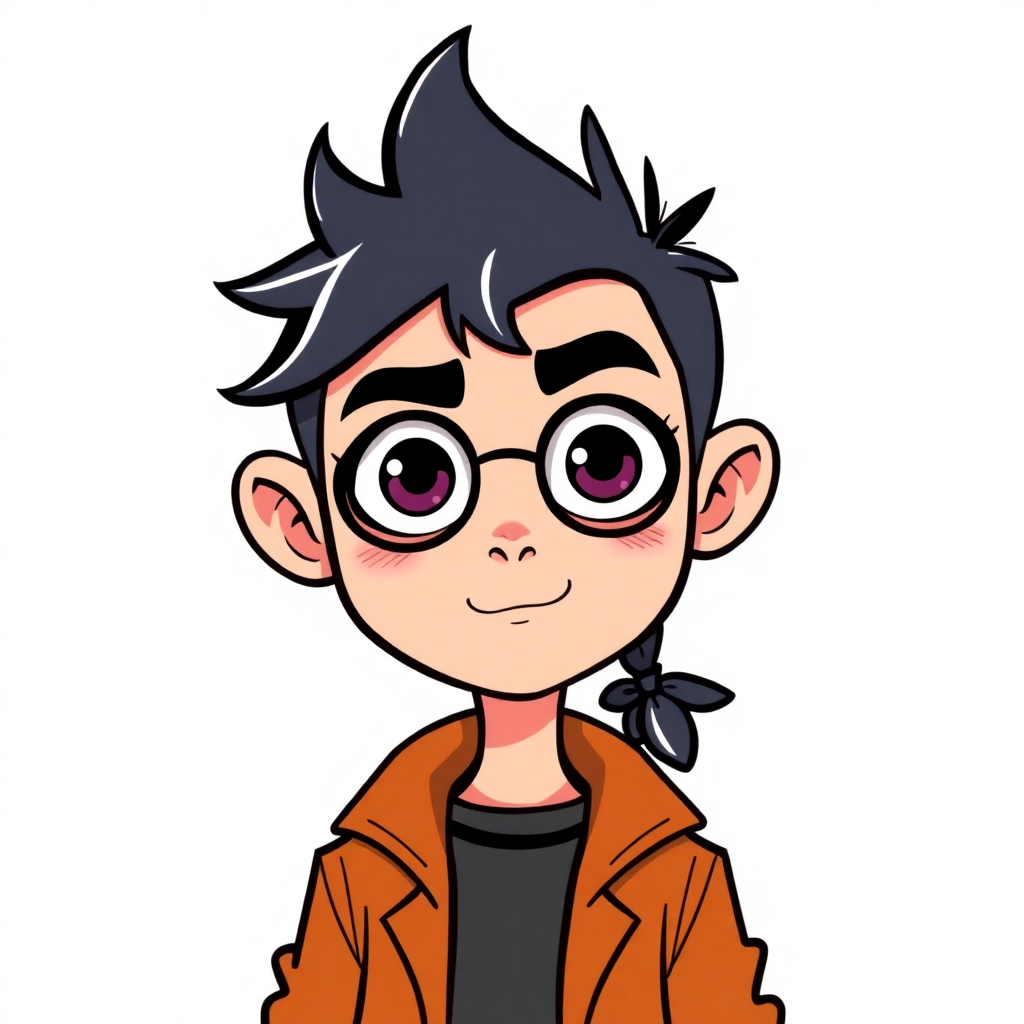
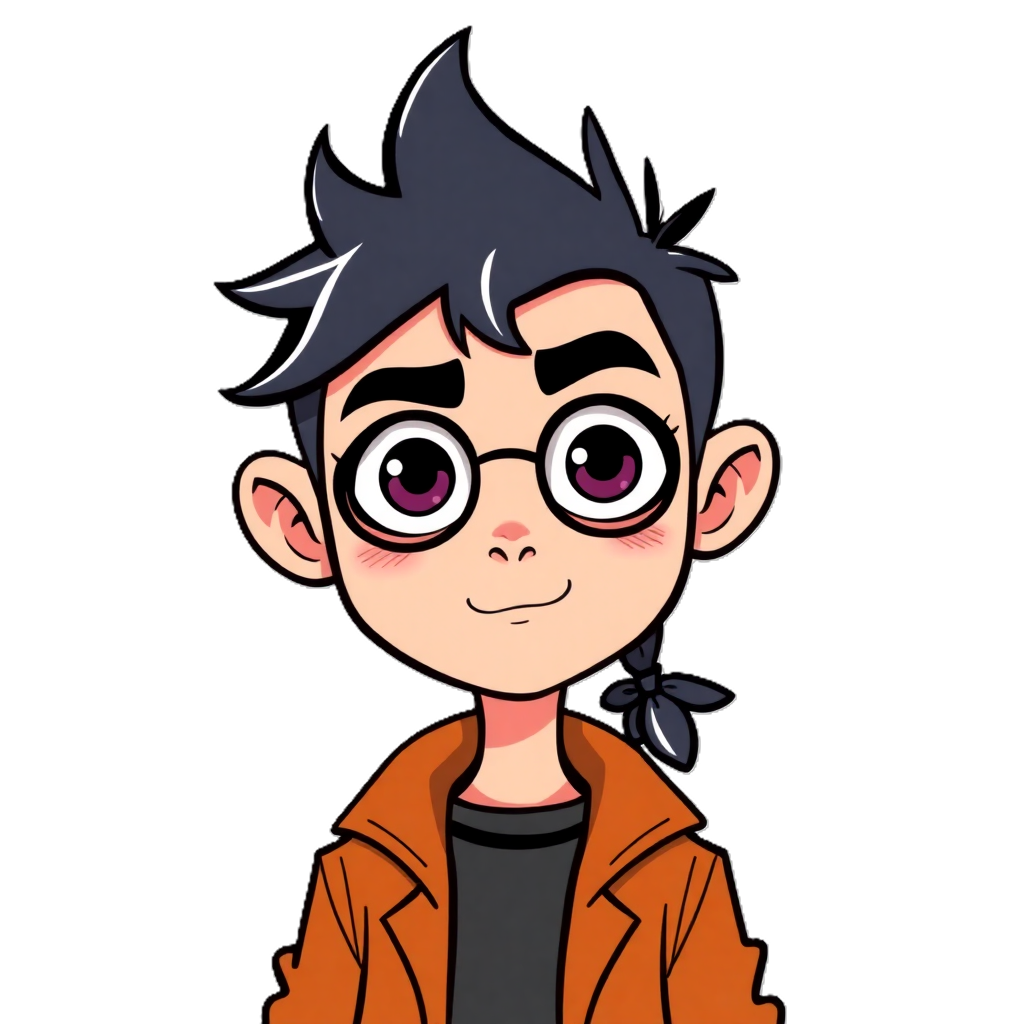
updated

diff --git a/frontend-react/src/utils/audioPreloader.ts b/frontend-react/src/utils/audioPreloader.ts
@@ -1,0 +1,54 @@
+// src/utils/audioPreloader.ts
+
+// 💡 NEW: Use eager glob import to include all sound files in the build bundle.
+// This is critical for caching, as it forces the browser to download the files
+// as part of the initial app bundle, eliminating per-play network requests.
+const soundFiles = import.meta.glob("../assets/sounds/*.mp3", {
+  eager: true,
+  import: "default", // Ensure the imported value is the direct URL
+});
+
+// Cache to hold loaded HTMLAudioElement objects
+export const cachedSounds: Record<string, HTMLAudioElement> = {};
+
+/**
+ * Preloads all sound files by eagerly loading them and storing them
+ * as HTMLAudioElement objects in the cachedSounds map.
+ */
+export const preloadSounds = () => {
+  if (Object.keys(cachedSounds).length > 0) {
+    console.log("🔊 Sounds already preloaded.");
+    return;
+  }
+
+  console.log("🚀 Starting sound preloading...");
+  
+  Object.entries(soundFiles).forEach(([path, url]) => {
+    // Extracts the filename (e.g., 'levelUp' from '../assets/sounds/levelUp.mp3')
+    const fileNameMatch = path.match(/([^\/]+)\.mp3$/);
+    const fileName = fileNameMatch ? fileNameMatch[1] : null;
+    
+    if (fileName) {
+      const audio = new Audio(url as string);
+      audio.load(); // Request the audio file data immediately
+      cachedSounds[fileName] = audio;
+    }
+  });
+  
+  console.log(`✅ Preloaded ${Object.keys(cachedSounds).length} sound files.`);
+};
+
+/**
+ * Helper function to play a cached sound
+ * @param key The filename key (without extension) of the sound to play
+ */
+export const playCachedSound = (key: string) => {
+  const audio = cachedSounds[key];
+  if (audio) {
+    // Cloning the node allows the sound to be played multiple times concurrently
+    const clone = audio.cloneNode() as HTMLAudioElement;
+    clone.play().catch(e => console.warn("Could not play sound:", key, e));
+  } else {
+    console.warn(`Sound not found in cache: ${key}`);
+  }
+};

diff --git a/frontend-react/src/components/quiz/QuizResults.tsx b/frontend-react/src/components/quiz/QuizResults.tsx
@@ -912,10 +912,14 @@ export default function QuizResults({ results, onPlayAgain, onClose }: QuizResul
                   <KnowledgePointIcon className="h-7 w-7 sm:h-8 sm:w-8 text-white" />
                 </div>
                 <div>
-                  <div className="xp-text-aura text-5xl sm:text-6xl font-black bg-gradient-to-b from-yellow-300
-                   via-yellow-400 to-orange-400 bg-clip-text text-transparent tabular-nums animate-number-grow">
+                  <div className="
+                    text-5xl sm:text-6xl font-black
+                    tabular-nums animate-number-grow
+                    text-amber-400 outlined-text amber-glow
+                  ">
                     {animatedKnowledge}
                   </div>
+
                   <div className="text-yellow-400/80 font-bold text-sm sm:text-base mt-1 sm:mt-2">
                     XP EARNED
                   </div>
@@ -938,9 +942,14 @@ export default function QuizResults({ results, onPlayAgain, onClose }: QuizResul
                 </div>
                 <div>
                   {/* COIN COUNT: Changed gradient to gold/yellow and uses the modified coin-text-aura */}
-                  <div className="coin-text-aura text-5xl sm:text-6xl font-extrabold bg-gradient-to-b from-yellow-300 via-yellow-400 to-amber-400 bg-clip-text text-transparent tabular-nums animate-number-grow">
-                    {animatedCoins}
-                  </div>
+                  <div className="
+                  text-5xl sm:text-6xl font-extrabold
+                  tabular-nums animate-number-grow
+                  text-amber-400 outlined-text amber-glow
+                ">
+                  {animatedCoins}
+                </div>
+
                   {/* SUBTITLE: Changed color to amber-400 */}
                   <div className="text-amber-400/80 font-bold text-sm sm:text-base mt-1 sm:mt-2">
                     COINS EARNED

diff --git a/frontend-react/src/App.css b/frontend-react/src/App.css
@@ -50,3 +50,21 @@
 .read-the-docs {
   color: #888;
 }
+/* Ultra clear outlined text */
+.outlined-text {
+  -webkit-text-stroke: 3px rgba(0, 0, 0, 0.9);
+  paint-order: stroke fill;
+  text-shadow:
+    3px 3px 0 rgba(0, 0, 0, 0.85),
+   -3px 3px 0 rgba(0, 0, 0, 0.85),
+    3px -3px 0 rgba(0, 0, 0, 0.85),
+   -3px -3px 0 rgba(0, 0, 0, 0.85),
+    0 0 12px rgba(245, 158, 11, 0.7),
+    0 0 24px rgba(245, 158, 11, 0.5),
+    0 0 40px rgba(245, 158, 11, 0.35);
+}
+
+/* Smooth golden glow */
+.amber-glow {
+  color: #f59e0b; /* amber-400 */
+}
